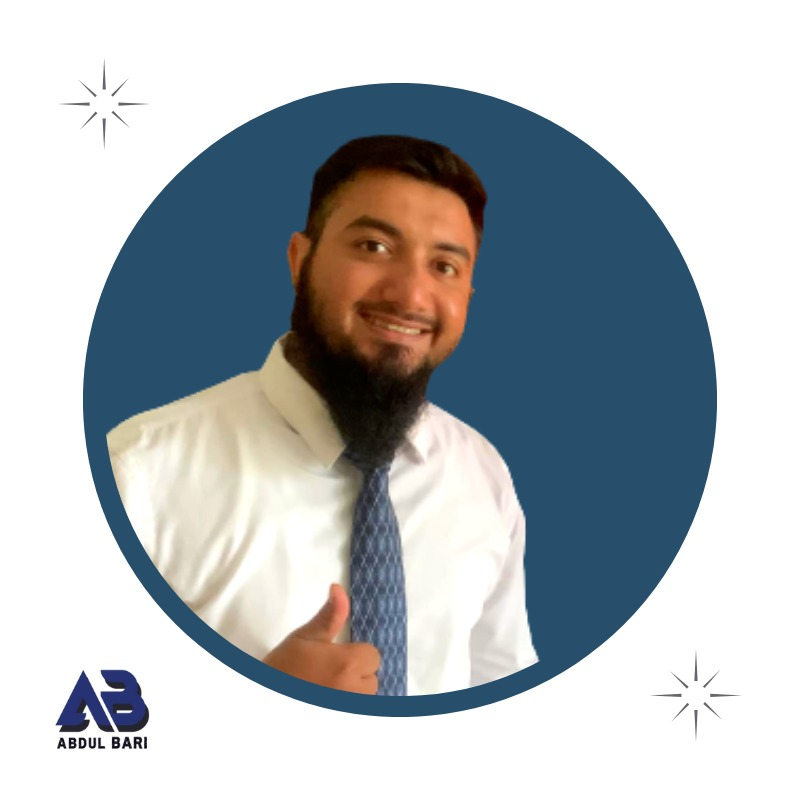
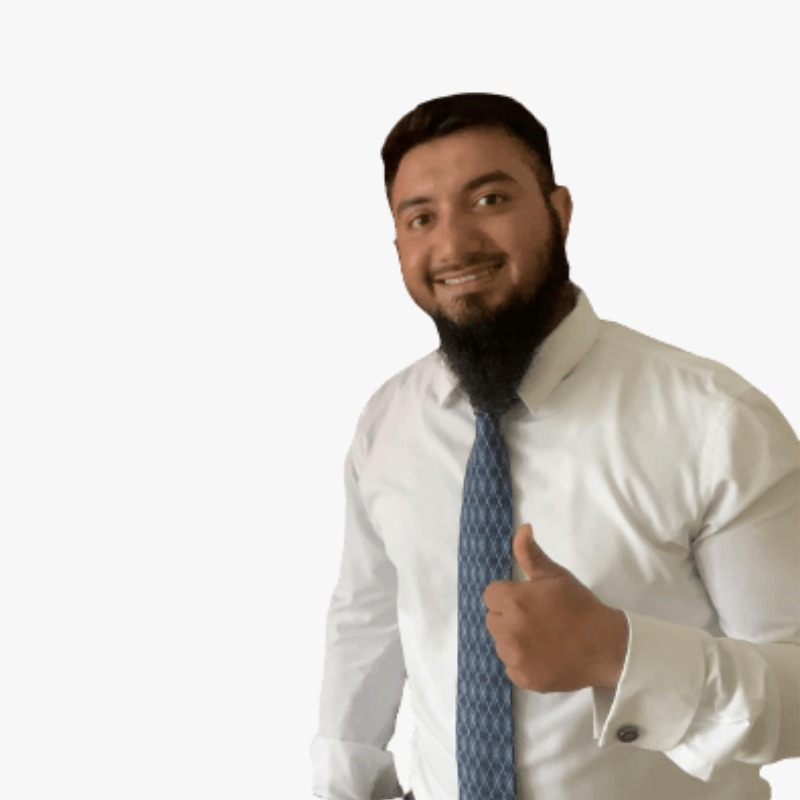
.

diff --git a/src/content_option.js b/src/content_option.js
@@ -3,6 +3,7 @@ import tradexco from './assets/images/tradexco.png'
 import Airtap  from './assets/images/airtap.png'
 import Cladius from './assets/images/cladius.png'
 import Mambie from './assets/images/membie.png'
+import AbdulBari from './assets/images/AbdulBari.jpeg'
 const logotext = "ABDUL BARI";
 const meta = {
     title: "Abdul Bari",
@@ -16,7 +17,7 @@ const introdata = {
         second: "Coding immersive digital experiences through website design and development is a passion of mine.",
     },
     description: "An attractive website can enhance your online presence, attract more visitors, and ultimately lead to increased sales.",
-    your_img_url: "https://media.licdn.com/dms/image/D4D03AQH49lFZBnTJpQ/profile-displayphoto-shrink_800_800/0/1667817355737?e=2147483647&v=beta&t=pBiJOXMli2sLuSeCZBU52vD6aIq_JKrCTpthuZJ-0Pk",
+    your_img_url: AbdulBari,
 };
 
 const dataabout = {
